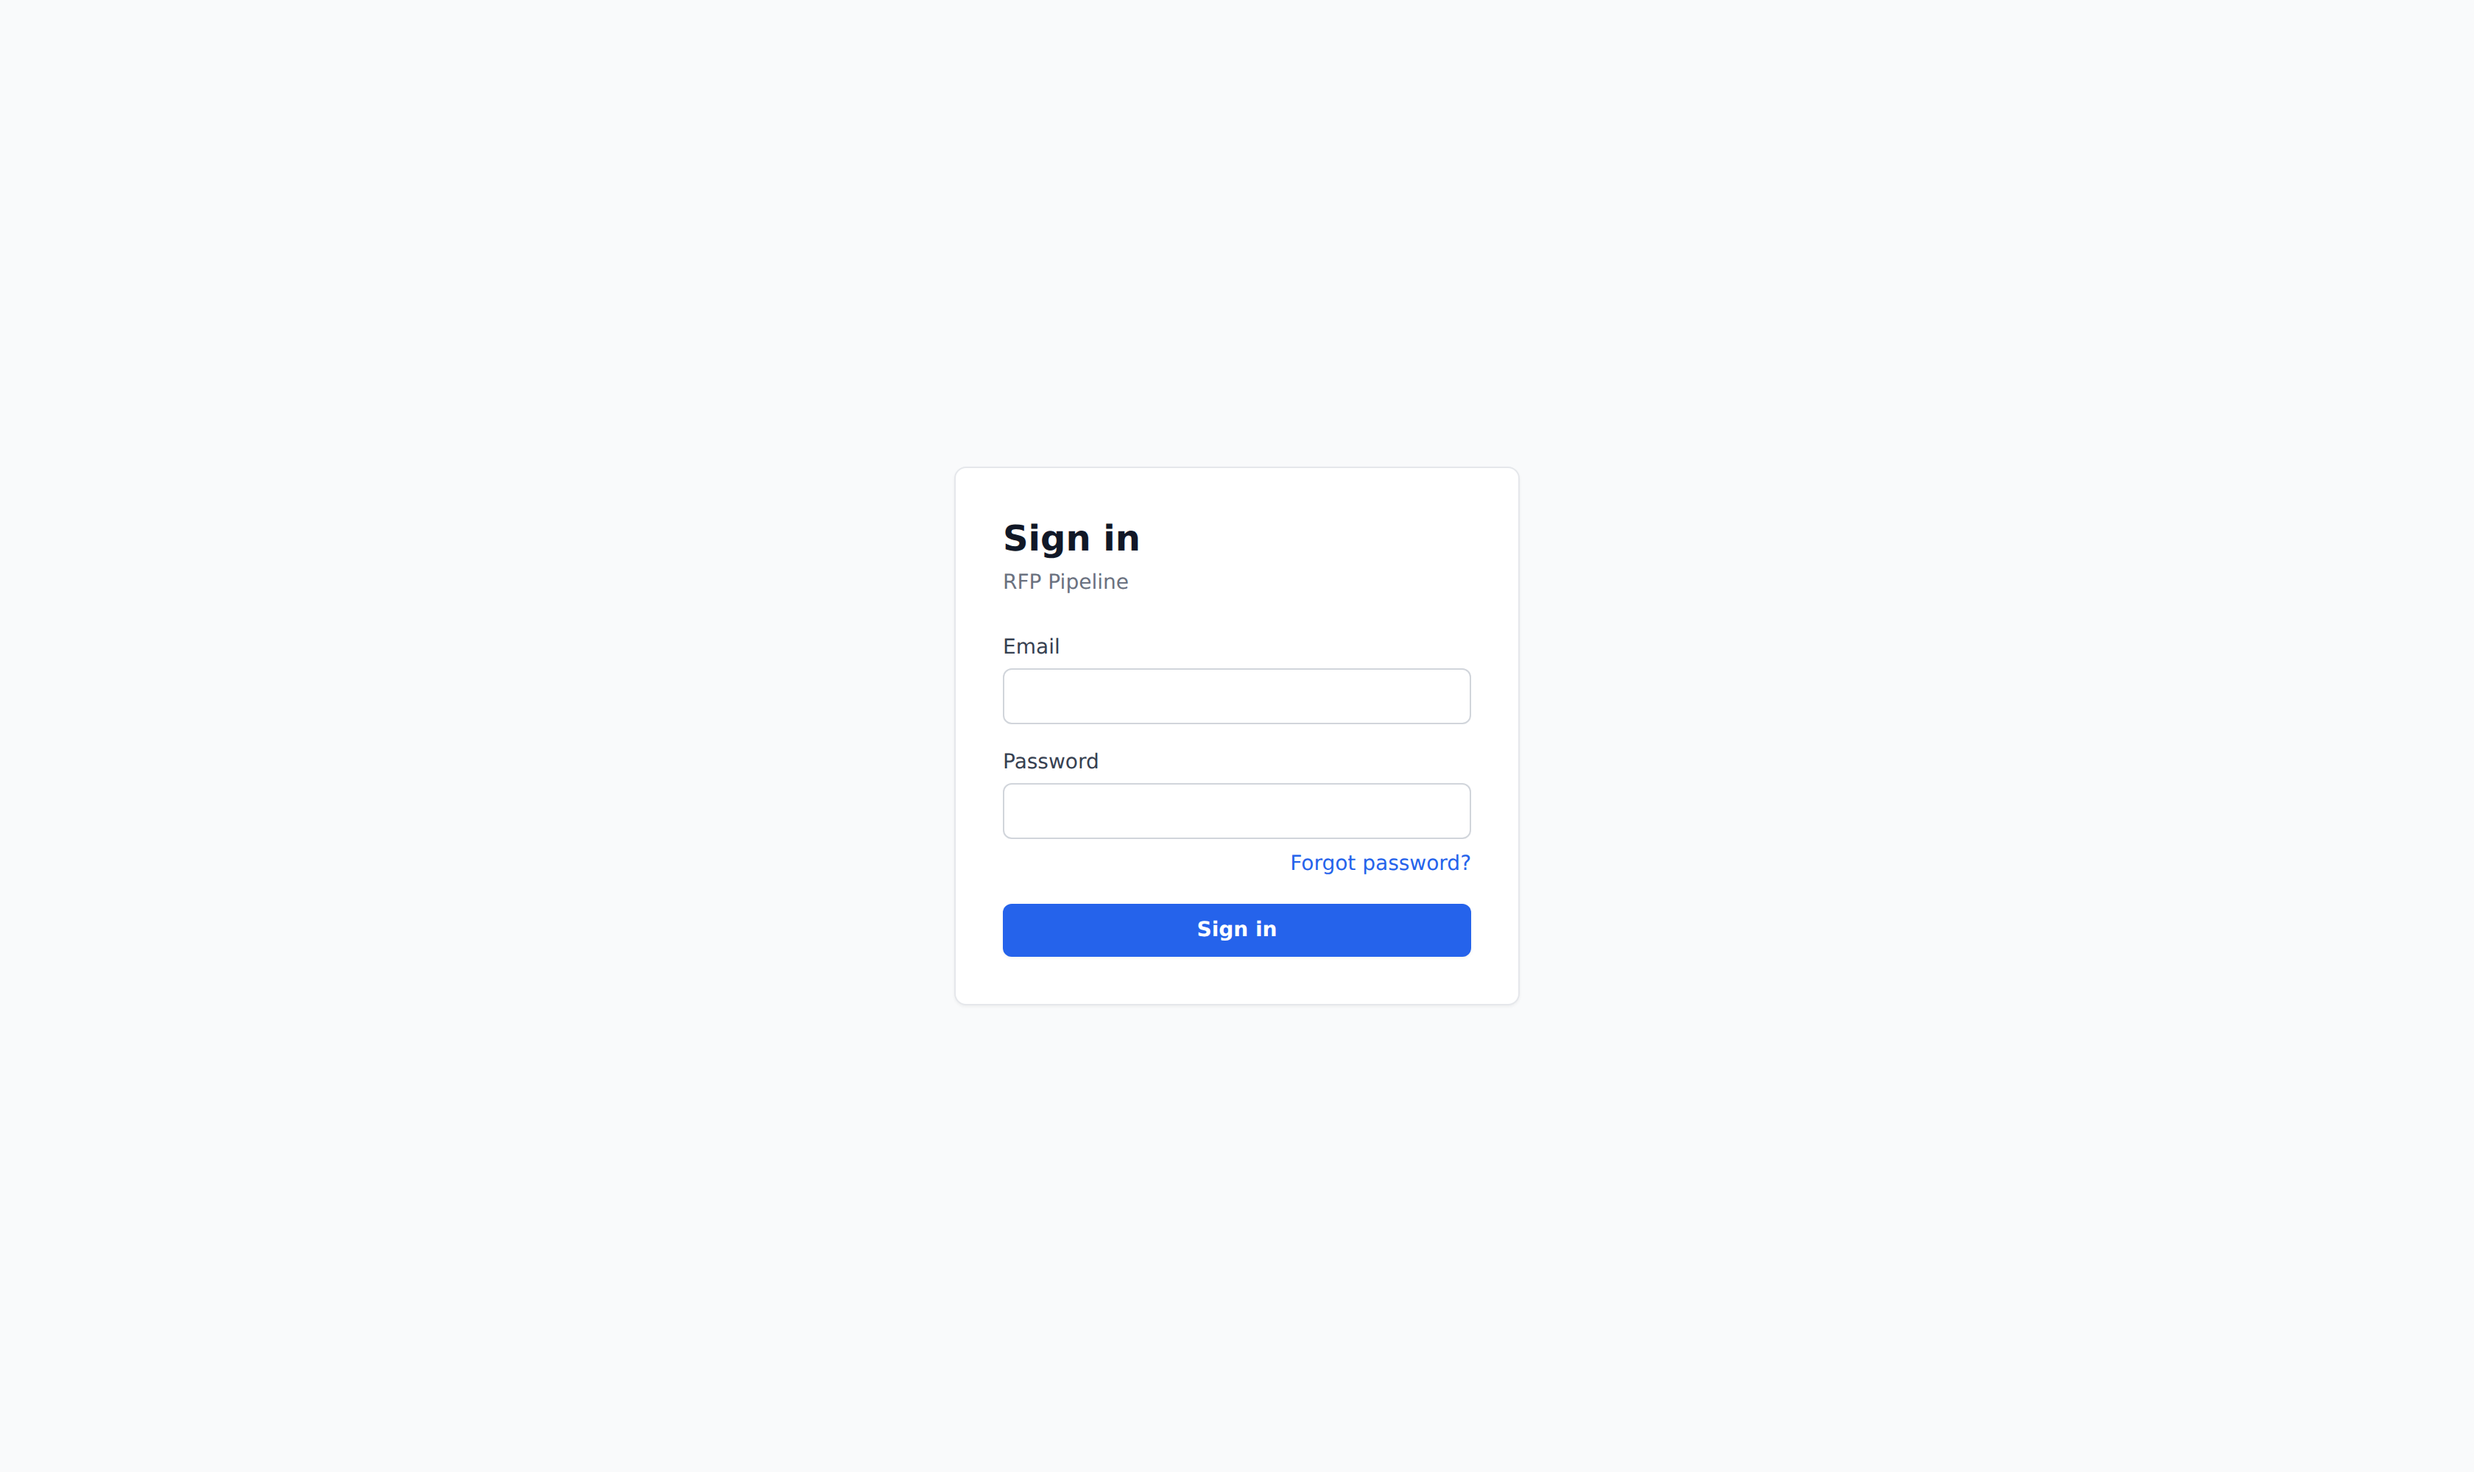
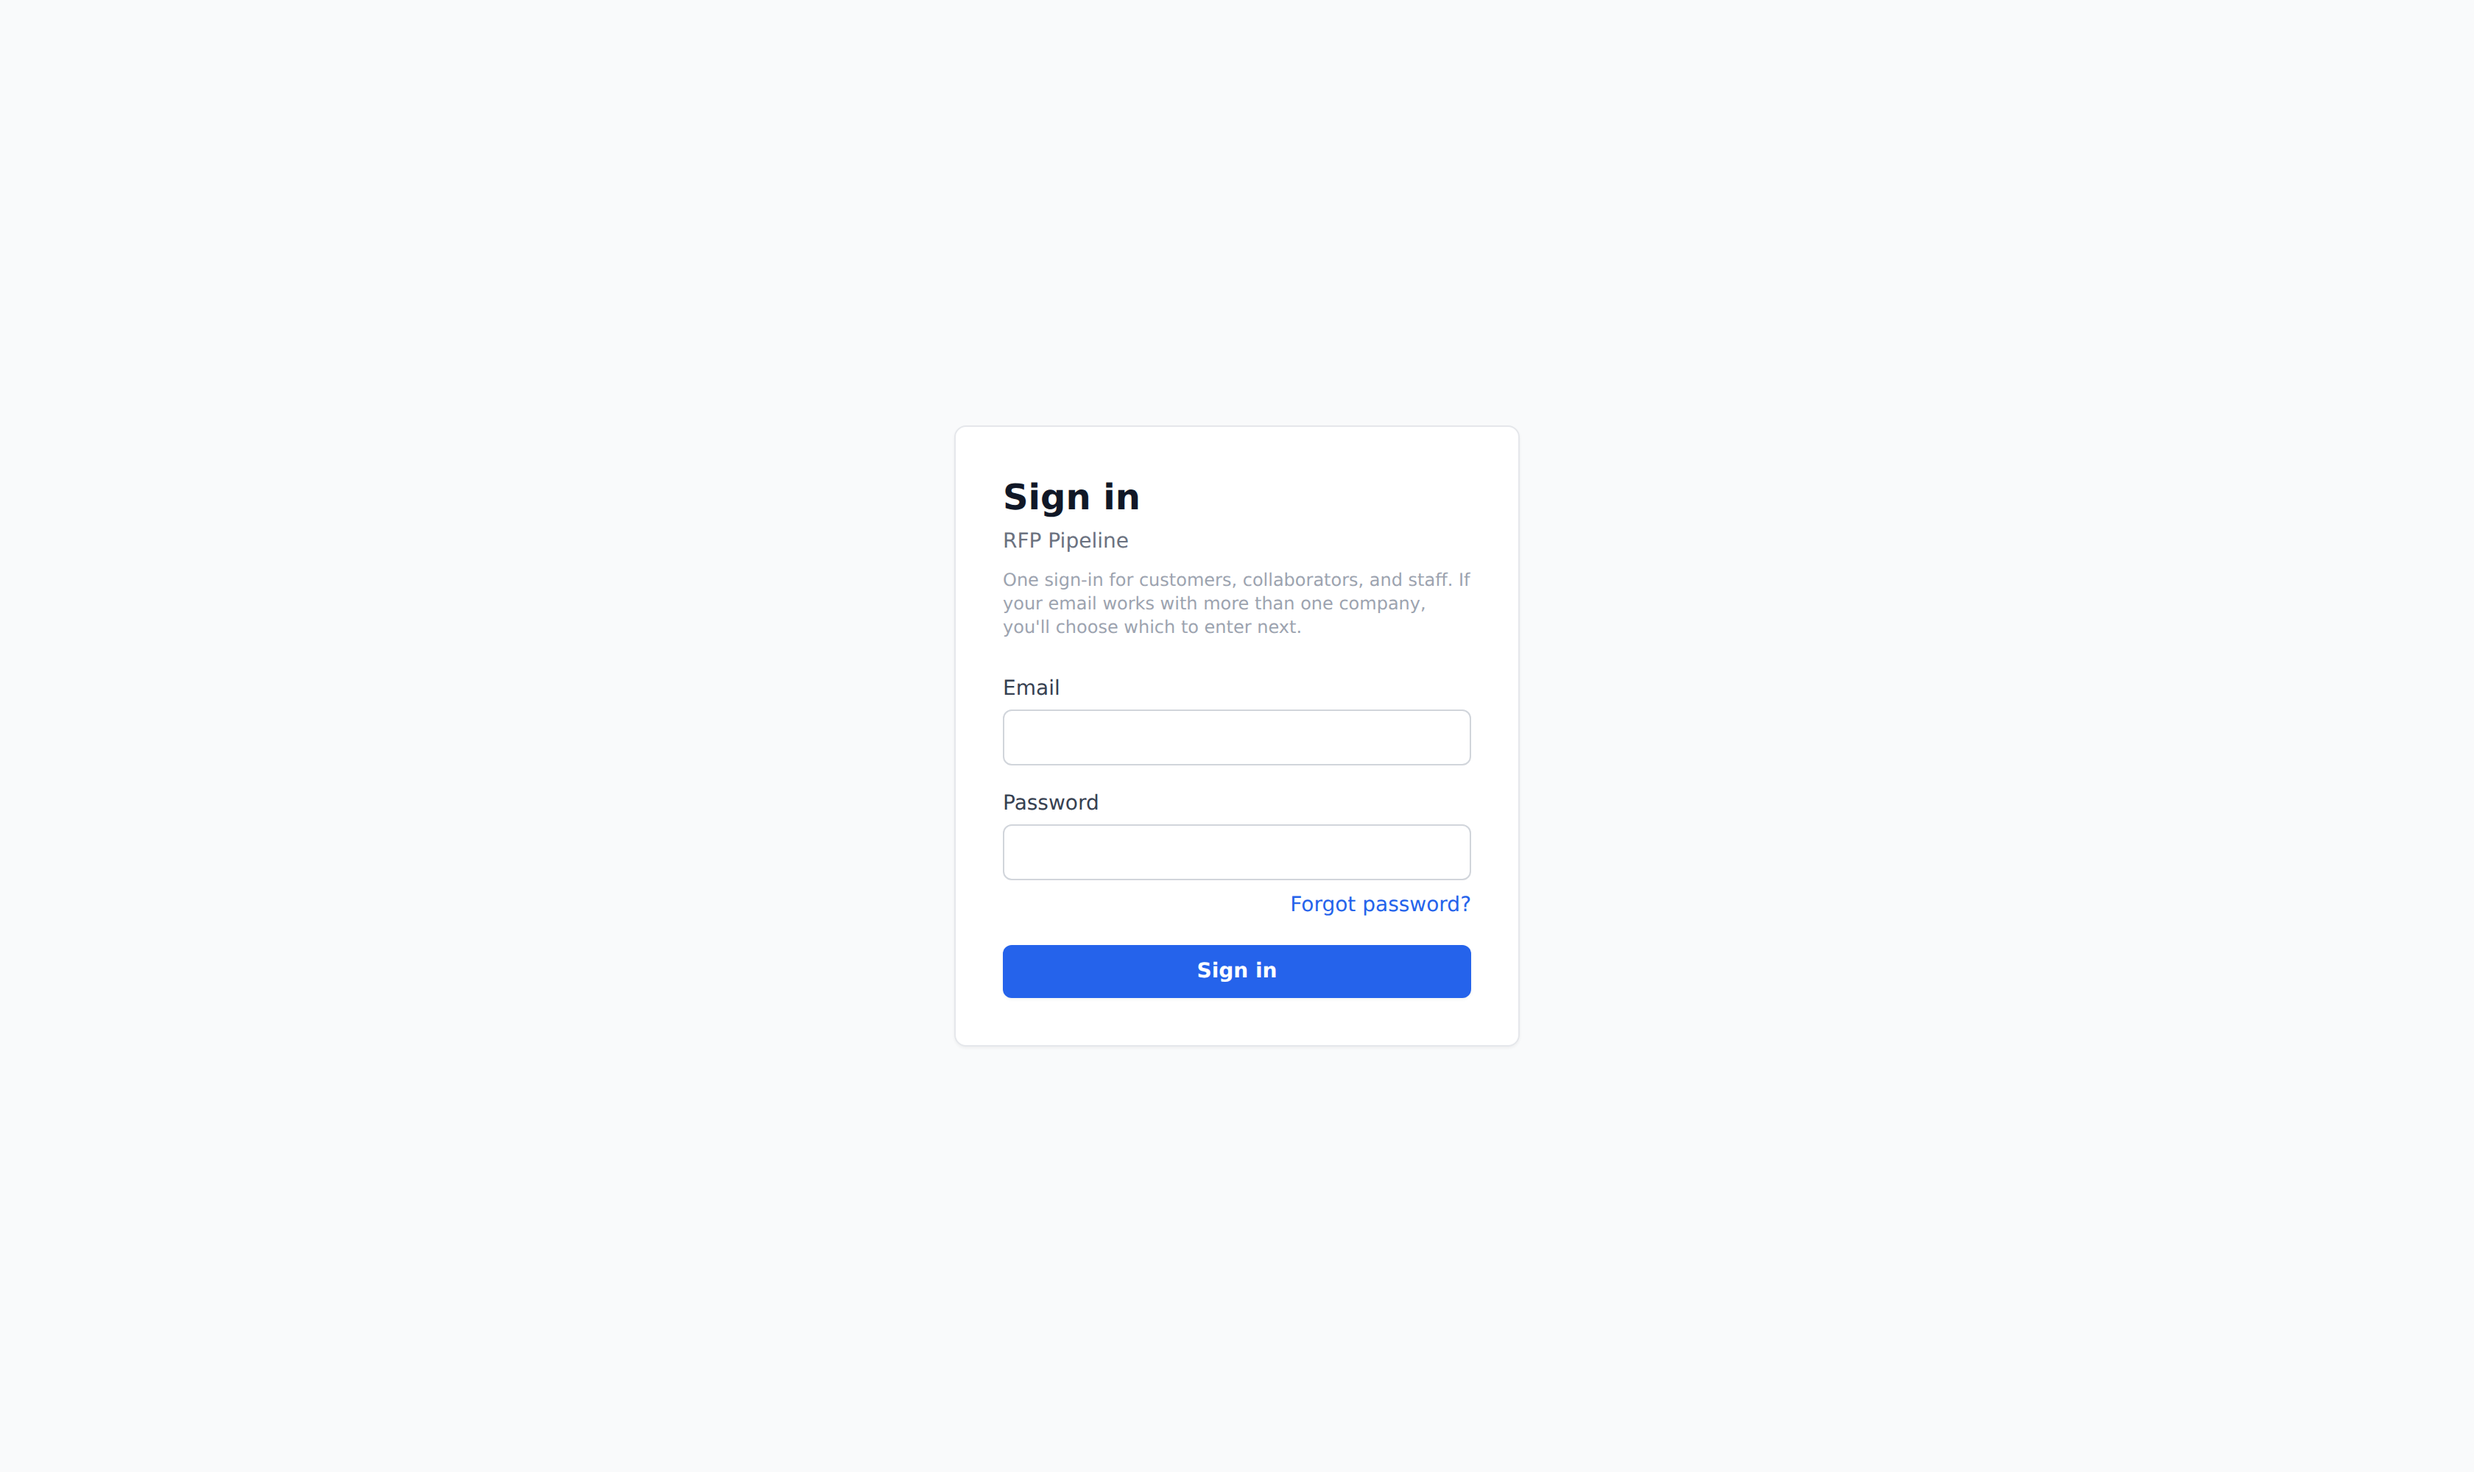
#110 P3: collaborator invite → membership (multi-company works) + fixes
Make the multi-company collaborator case work for REAL invites, not just seeded
data — the last thing the singular-session gate needs to be correct end to end.

- Invite path now materializes an active (tenant, partner_user|tenant_user,
  source='collaborator') membership so a CROSS-COMPANY collaborator can actually
  reach the inviting tenant's portal (verifyTenantAccess is membership-based; their
  users.tenant_id points at their OWN company). ON CONFLICT DO NOTHING so an
  existing membership is never downgraded; users.tenant_id is left untouched, so
  the invitee's home is preserved (no clobber).
- Fix a pre-existing 500: proposal_collaborators.assigned_sections is uuid[] but
  the insert bound text[] — any section-scoped invite failed. Cast ::uuid[] and
  filter assignedSections to valid UUIDs (defensive against bad input).
- Login screen: one-sign-in helper copy ("you'll choose which company next"),
  making the single-login-then-select intent explicit. Refreshed login.png.

Verified (scripts/drive-p3-invite.mts + DB asserts): inviting an existing
Beacon-home user to Acme yields TWO memberships (beacon home admin + acme
collaborator) with home preserved; a brand-new invitee gets an acme partner_user
membership. Pin enforcement regression still 12/12 green; tsc clean; 701/701.

Claude-Session: https://claude.ai/code/session_014WpKLE6LTPMraFbTacbbBV

Changed region(s): [[0.4062, 0.558, 0.5938, 0.682], [0.4062, 0.31, 0.5938, 0.558]]

diff --git a/frontend/app/api/portal/[tenantSlug]/proposals/[proposalId]/collaborators/route.ts b/frontend/app/api/portal/[tenantSlug]/proposals/[proposalId]/collaborators/route.ts
@@ -209,7 +209,11 @@ export async function POST(request: Request, ctx: RouteContext) {
     const email = typeof body.email === 'string' ? body.email.trim().toLowerCase() : '';
     const name = typeof body.name === 'string' ? body.name.trim() : '';
     const collabRole = typeof body.role === 'string' ? body.role : 'contributor';
-    const assignedSections = Array.isArray(body.assignedSections) ? body.assignedSections : [];
+    // assigned_sections is a uuid[] column — keep only valid UUIDs so the array casts
+    // cleanly (a bad element would otherwise 500 the whole invite).
+    const assignedSections = Array.isArray(body.assignedSections)
+      ? body.assignedSections.filter((s): s is string => typeof s === 'string' && isValidUUID(s))
+      : [];
     const permission = typeof body.permission === 'string' ? body.permission : 'view';
 
     if (!email || !email.includes('@')) {
@@ -289,15 +293,18 @@ export async function POST(request: Request, ctx: RouteContext) {
         SELECT id, tenant_id FROM users WHERE email = ${email} LIMIT 1
       `;
 
+      // The membership role this invite grants at THIS company (independent of any
+      // role the person holds at other companies — see multi-membership identity).
+      const membershipRole = collabRole === 'external' ? 'partner_user' : 'tenant_user';
+
       if (!existingUser) {
         isNewUser = true;
         tempPassword = randomUUID().slice(0, 12);
         const passwordHash = await bcrypt.hash(tempPassword, 12);
-        const userRole = collabRole === 'external' ? 'partner_user' : 'tenant_user';
 
         const [newUser] = await tx<{ id: string }[]>`
           INSERT INTO users (email, name, role, tenant_id, password_hash, temp_password)
-          VALUES (${email}, ${name || null}, ${userRole}, ${tenantId}, ${passwordHash}, true)
+          VALUES (${email}, ${name || null}, ${membershipRole}, ${tenantId}, ${passwordHash}, true)
           RETURNING id
         `;
         existingUser = { id: newUser.id, tenantId: tenantId };
@@ -316,7 +323,7 @@ export async function POST(request: Request, ctx: RouteContext) {
         VALUES (
           ${proposalId}, ${existingUser.id}, ${email}, ${name || null},
           ${collabRole}, ${sessionUser.id},
-          ${sql.array(assignedSections)}, true, ${acceptedAt}::timestamptz
+          ${sql.array(assignedSections)}::uuid[], true, ${acceptedAt}::timestamptz
         )
         RETURNING id
       `;
@@ -333,6 +340,19 @@ export async function POST(request: Request, ctx: RouteContext) {
           )
         `;
       }
+
+      // Materialize the login-selectable membership (multi-membership identity, P3).
+      // This is what lets a CROSS-COMPANY collaborator reach this tenant's portal:
+      // verifyTenantAccess gates on an active membership, and their users.tenant_id is
+      // their OWN company, not this one. Bind it to this tenant as a 'collaborator'
+      // membership WITHOUT touching users.tenant_id (their home is preserved). ON
+      // CONFLICT DO NOTHING so an existing membership (e.g. they're really an admin
+      // here) is never downgraded to partner_user. See MULTI_MEMBERSHIP_IDENTITY_DESIGN.
+      await tx`
+        INSERT INTO user_memberships (user_id, tenant_id, role, status, source, created_by)
+        VALUES (${existingUser.id}, ${tenantId}, ${membershipRole}, 'active', 'collaborator', ${sessionUser.id})
+        ON CONFLICT (user_id, tenant_id) DO NOTHING
+      `;
 
       return { collaboratorId: collaborator.id, finalUserId: existingUser.id };
     });

diff --git a/frontend/app/(auth)/login/page.tsx b/frontend/app/(auth)/login/page.tsx
@@ -98,7 +98,11 @@ export default async function LoginPage({ searchParams }: PageProps) {
     <div className="min-h-screen flex items-center justify-center bg-gray-50 px-4">
       <div className="w-full max-w-sm bg-white border border-gray-200 rounded-lg shadow-sm p-8">
         <h1 className="text-2xl font-bold text-gray-900 mb-1">Sign in</h1>
-        <p className="text-sm text-gray-500 mb-6">RFP Pipeline</p>
+        <p className="text-sm text-gray-500 mb-2">RFP Pipeline</p>
+        <p className="text-xs text-gray-400 mb-6">
+          One sign-in for customers, collaborators, and staff. If your email works with
+          more than one company, you&apos;ll choose which to enter next.
+        </p>
 
         {justChanged ? (
           <div

diff --git a/docs/MULTI_MEMBERSHIP_IDENTITY_DESIGN.md b/docs/MULTI_MEMBERSHIP_IDENTITY_DESIGN.md
@@ -241,3 +241,11 @@ and the "switch company" flow are the customer-facing manual pieces).
   company where they're only a collaborator is rewritten to `partner_user`, pinned,
   cannot hop to their home tenant, and `/select-company` is re-pick-proof; a
   single-membership user and an admin are unaffected. tsc clean, 701/701 unit tests.
+- ✅ **P3 — collaborator invite → membership.** The proposal-collaborator invite path
+  now INSERTs an `active` `(tenant, partner_user|tenant_user, source='collaborator')`
+  membership (`ON CONFLICT (user_id, tenant_id) DO NOTHING`, never downgrading an
+  existing one) **without touching `users.tenant_id`** — so a cross-company
+  collaborator's home is preserved *and* they can actually reach the inviting tenant's
+  portal (the singular-session gate is membership-based; their `users.tenant_id` points
+  at their own company). This is what makes the multi-company collaborator case work
+  for real invites, not just seeded data.
